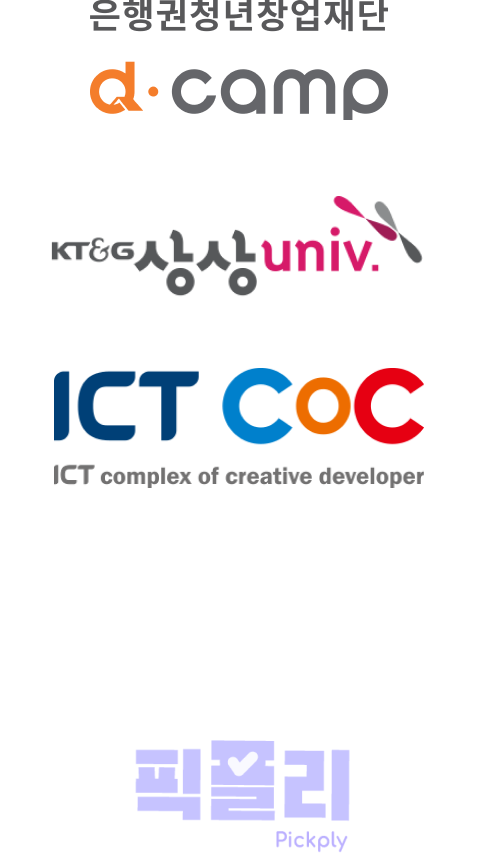
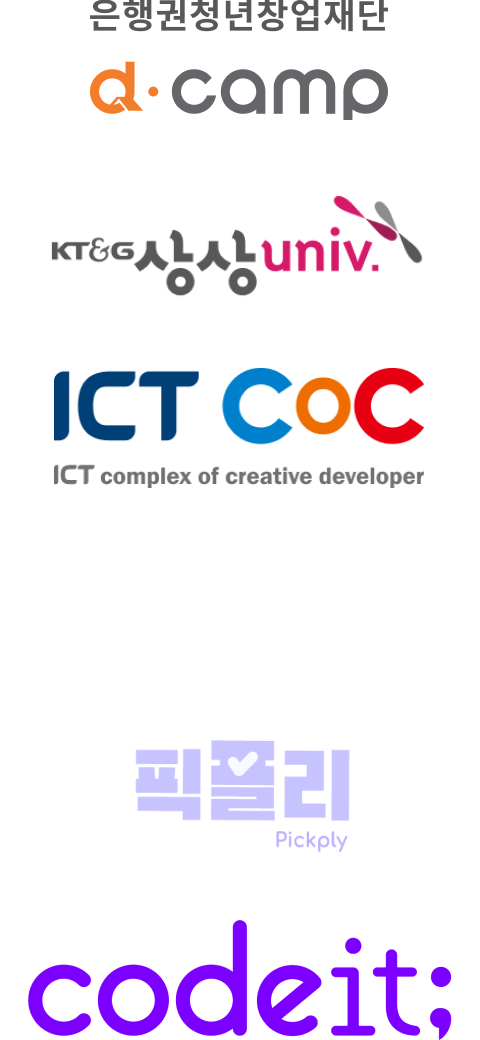
feat: Mobile & PC 협력사 수정

diff --git a/src/pages/Main/MainPage.tsx b/src/pages/Main/MainPage.tsx
@@ -636,7 +636,7 @@ const MainPage = () => {
                 {"KUSITMS과 함께하는 파트너사를 소개해요."}
               </MobileDescriptionText>
             </div>
-            <img src={partnerMobileImage} width="240px" height="428px" />
+            <img src={partnerMobileImage} width="240px" height="520px" />
           </MobilePartnerContainer>
         </MobileContainer>
         <Footer />
